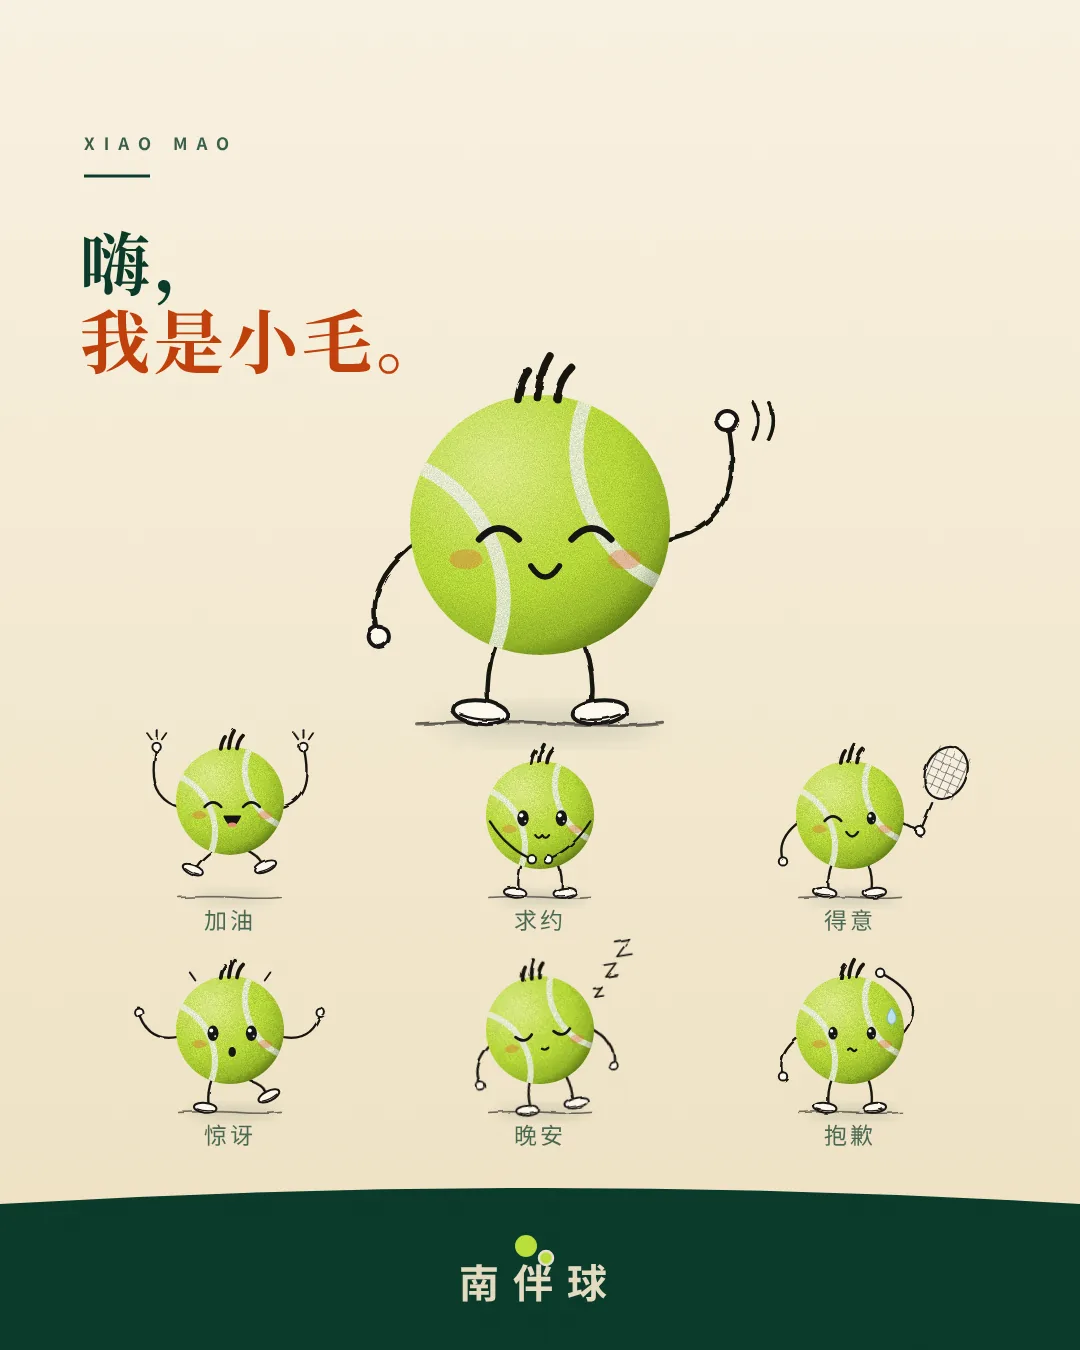
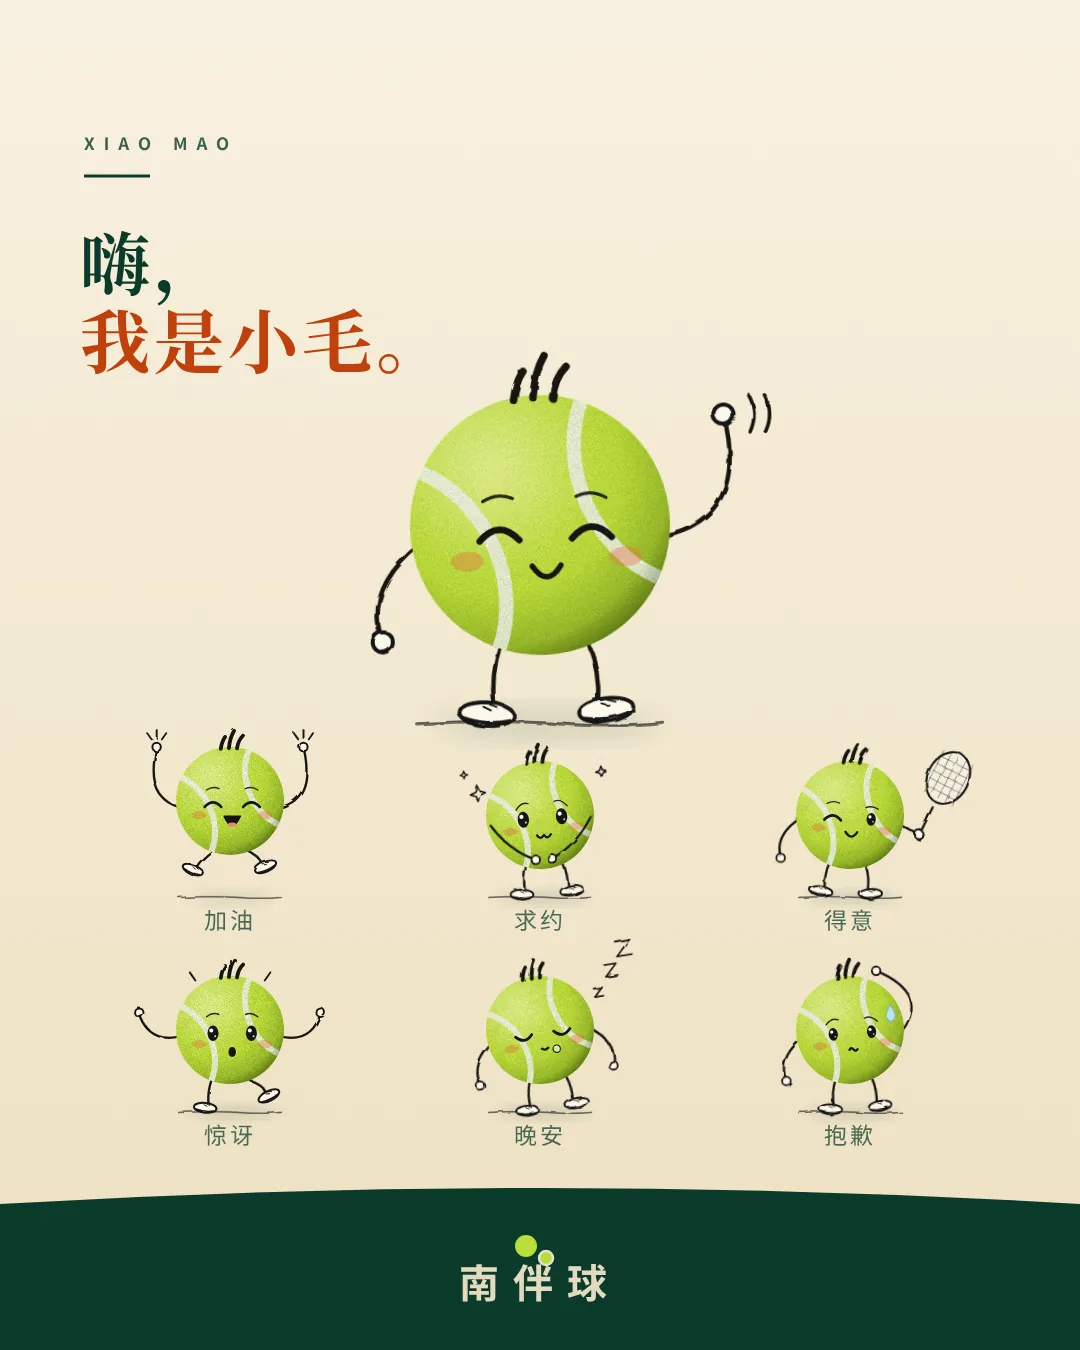
宣传物料：小绒改成粉色的球 + 小蝴蝶结；脸加眉毛、鞋带、求约闪光、睡着鼻泡、歪头；80 击掌改成 Λ 形；78–81 重出
Claude-Session: https://claude.ai/code/session_01Vg2RCbjYppFezKGzdwzEXB

diff --git a/marketing/mao3.py b/marketing/mao3.py
@@ -21,18 +21,19 @@ def hand3(x, y, r, w):
 
 def shoe3(x, y, r, w, rot=0):
     return (f'<g transform="translate({x:.1f} {y:.1f}) rotate({rot})"><ellipse rx="{.21*r:.1f}" ry="{.09*r:.1f}" fill="{PAPER}" stroke="{PEN}" stroke-width="{w:.2f}"/>'
-            f'<path d="M{-.15*r:.1f} {.035*r:.1f} Q0 {.075*r:.1f} {.15*r:.1f} {.035*r:.1f}" fill="none" stroke="{PEN}" stroke-width="{w*.6:.2f}" stroke-linecap="round"/></g>')
+            f'<path d="M{-.17*r:.1f} {.04*r:.1f} Q0 {.085*r:.1f} {.17*r:.1f} {.04*r:.1f}" fill="none" stroke="{PEN}" stroke-width="{w*.75:.2f}" stroke-linecap="round"/>'
+            f'<path d="M{-.03*r:.1f} {-.055*r:.1f} l{.06*r:.1f} {.025*r:.1f} M{.02*r:.1f} {-.075*r:.1f} l{.06*r:.1f} {.022*r:.1f}" fill="none" stroke="{PEN}" stroke-width="{w*.45:.2f}" stroke-linecap="round"/></g>')
 
 
 SH_L, SH_R = (-.93, .12), (.93, .12)
 DOWN_L, DOWN_R = ((-1.38, .45), (-1.24, .86)), ((1.38, .45), (1.24, .86))
 POSES = {
-    'wave':   dict(L=DOWN_L, R=((1.62, .0), (1.44, -.80)), legs='stand', sparks='wave'),
+    'wave':   dict(L=DOWN_L, R=((1.62, .0), (1.44, -.80)), legs='stand', sparks='wave', tilt=-2),
     'cheer':  dict(L=((-1.58, -.05), (-1.36, -1.00)), R=((1.58, -.05), (1.36, -1.00)), legs='jump', lift=.26, sparks='cheer'),
-    'plead':  dict(L=((-.62, .62), (-.15, .82)), R=((.62, .62), (.15, .82)), front=True, legs='stand'),
-    'racket': dict(L=DOWN_L, R=((1.40, .36), (1.30, .30)), legs='stand', racket=True),
+    'plead':  dict(L=((-.62, .62), (-.15, .82)), R=((.62, .62), (.15, .82)), front=True, legs='stand', sparks='plead', tilt=-5),
+    'racket': dict(L=DOWN_L, R=((1.40, .36), (1.30, .30)), legs='stand', racket=True, tilt=3),
     'wow':    dict(L=((-1.52, .25), (-1.68, -.32)), R=((1.52, .25), (1.68, -.32)), legs='step', sparks='wow'),
-    'sorry':  dict(L=DOWN_L, R=((1.55, -.55), (.56, -1.06)), legs='stand'),
+    'sorry':  dict(L=DOWN_L, R=((1.55, -.55), (.56, -1.06)), legs='stand', tilt=-4),
     'sleep':  dict(L=DOWN_L, R=DOWN_R, legs='stand', tilt=-9, zz=True),
 }
 LEGS = {  # (髋, 控制点, 脚踝, 鞋的角度)
@@ -46,6 +47,8 @@ def _flip(P):
     fl = lambda a: None if a is None else ((-a[0][0], a[0][1]), (-a[1][0], a[1][1]))
     Q = dict(P)
     Q['L'], Q['R'] = fl(P.get('R')), fl(P.get('L'))
+    if 'tilt' in Q:
+        Q['tilt'] = -Q['tilt']
     return Q
 
 
@@ -62,26 +65,77 @@ def tuft3(cx, cy, r, w):
     return out
 
 
-def pony3(cx, cy, r, w):
-    """小绒的高马尾（黑色一笔甩出去）+ 橙色蝴蝶结。"""
-    P = lambda x, y: f'{cx + x*r:.1f} {cy + y*r:.1f}'
-    bx, by = .30, -.96
-    tail = (f'<path d="M{P(bx,by)} C{P(.55,-1.45)} {P(1.10,-1.40)} {P(1.12,-.80)} C{P(.98,-1.05)} {P(.70,-1.08)} {P(bx,by)} Z" '
-            f'fill="{PEN}" stroke="{PEN}" stroke-width="{w*.5:.2f}" stroke-linejoin="round"/>')
-    lobe = lambda k: (f'<path d="M0 0 L{k*.24*r:.1f} {-.15*r:.1f} Q{k*.30*r:.1f} 0 {k*.24*r:.1f} {.15*r:.1f} Z" fill="#E8643C" stroke="{PEN}" stroke-width="{w*.7:.2f}" stroke-linejoin="round"/>')
-    bow = (f'<g transform="translate({cx + bx*r:.1f} {cy + by*r:.1f}) rotate(-28)">{lobe(-1)}{lobe(1)}'
-           f'<circle r="{.065*r:.1f}" fill="#E8643C" stroke="{PEN}" stroke-width="{w*.7:.2f}"/></g>')
-    return tail + bow
+def bow3(cx, cy, r, w):
+    """小绒头顶右侧的小蝴蝶结：奶油白 + 黑线描边，中间一个结，两瓣各一道褶。"""
+    bx, by = .50, -.87
+    lobe = lambda k: (f'<path d="M0 0 L{k*.27*r:.1f} {-.17*r:.1f} Q{k*.34*r:.1f} 0 {k*.27*r:.1f} {.17*r:.1f} Z" fill="{PAPER}" stroke="{PEN}" stroke-width="{w*.8:.2f}" stroke-linejoin="round"/>'
+                      f'<path d="M{k*.06*r:.1f} 0 L{k*.23*r:.1f} {-.07*r:.1f} M{k*.06*r:.1f} 0 L{k*.23*r:.1f} {.07*r:.1f}" stroke="{PEN}" stroke-width="{w*.4:.2f}" stroke-linecap="round" opacity=".55"/>')
+    return (f'<g transform="translate({cx + bx*r:.1f} {cy + by*r:.1f}) rotate(-24)">{lobe(-1)}{lobe(1)}'
+            f'<circle r="{.07*r:.1f}" fill="{PAPER}" stroke="{PEN}" stroke-width="{w*.8:.2f}"/></g>')
 
 
-def skirt3(cx, cy, r, w):
-    """小绒的白色网球裙：奶油白 + 黑线描边 + 几道褶。"""
-    P = lambda x, y: f'{cx + x*r:.1f} {cy + y*r:.1f}'
-    d = (f'M{P(-.62,.66)} L{P(.62,.66)} L{P(.80,1.00)} Q{P(.60,1.08)} {P(.40,1.00)} Q{P(.20,1.08)} {P(0,1.00)} '
-         f'Q{P(-.20,1.08)} {P(-.40,1.00)} Q{P(-.60,1.08)} {P(-.80,1.00)} Z')
-    out = f'<path d="{d}" fill="{PAPER}" stroke="{PEN}" stroke-width="{w*.9:.2f}" stroke-linejoin="round"/>'
-    for x in (-.42, -.14, .14, .42):
-        out += f'<path d="M{P(x*.78,.70)} L{P(x,1.01)}" stroke="{PEN}" stroke-width="{w*.4:.2f}" stroke-linecap="round" opacity=".5"/>'
+def ball_c(id, cx, cy, r, hi, mid, lo, seam='#FFF6F0', rim='#3b0d1f', rot=-22):
+    """和 lib.ball 同一种写实网球，只是换颜色（粉色的小绒用）。"""
+    s = r / 100
+    return f'''
+<g transform="translate({cx} {cy}) scale({s})">
+  <circle r="100" fill="url(#pg{id})"/>
+  <clipPath id="pc{id}"><circle r="100"/></clipPath>
+  <g clip-path="url(#pc{id})">
+    <g transform="rotate({rot})">
+      <path d="M-67 -74 C-30 -34 -30 34 -67 74" fill="none" stroke="{seam}" stroke-width="11" stroke-linecap="round" opacity=".92"/>
+      <path d="M67 -74 C30 -34 30 34 67 74" fill="none" stroke="{seam}" stroke-width="11" stroke-linecap="round" opacity=".92"/>
+    </g>
+    <circle r="100" fill="#000" filter="url(#fuzz)" opacity=".30" style="mix-blend-mode:multiply"/>
+    <circle r="100" fill="url(#pr{id})"/>
+  </g>
+</g>
+<defs>
+ <radialGradient id="pg{id}" cx="35%" cy="30%" r="85%"><stop offset="0" stop-color="{hi}"/><stop offset=".55" stop-color="{mid}"/><stop offset="1" stop-color="{lo}"/></radialGradient>
+ <radialGradient id="pr{id}" cx="30%" cy="25%" r="90%"><stop offset="0" stop-color="#fff" stop-opacity=".28"/><stop offset=".45" stop-color="#fff" stop-opacity="0"/><stop offset=".8" stop-color="{rim}" stop-opacity="0"/><stop offset="1" stop-color="{rim}" stop-opacity=".5"/></radialGradient>
+</defs>'''
+
+
+PINK = dict(hi='#FFD3E0', mid='#F68FB4', lo='#C2517A')
+
+
+def brows3(cx, cy, s, mood):
+    """细细的眉毛：不同心情抬得不一样；睡着了没有。"""
+    if mood == 'sleep':
+        return ''
+    e = 42 * s
+    f = lambda v: f'{v:.1f}'
+    table = {'happy': (-30, -32), 'cheer': (-31, -34), 'wink': (-30, -32), 'wow': (-36, -41), 'plead': (-22, -34), 'sweat': (-22, -31)}
+    yo, yi = table.get(mood, (-23, -25))
+    out = ''
+    for sx in (-1, 1):
+        xo, xi = sx * (e + 14 * s), sx * (e - 13 * s)
+        if mood == 'wink' and sx == 1:
+            yo, yi = -23, -25
+        out += (f'<path d="M{f(cx + xo)} {f(cy + yo*s)} Q{f(cx + (xo + xi)/2)} {f(cy + (min(yo, yi) - 6)*s)} {f(cx + xi)} {f(cy + yi*s)}" '
+                f'fill="none" stroke="{PEN}" stroke-width="{f(3*s)}" stroke-linecap="round" opacity=".9"/>')
+    return out
+
+
+def sleepbubble(cx, cy, s):
+    return (f'<circle cx="{cx + 25*s:.1f}" cy="{cy + 39*s:.1f}" r="{8*s:.1f}" fill="#fff" fill-opacity=".55" stroke="{PEN}" stroke-width="{2.4*s:.2f}"/>'
+            f'<path d="M{cx + 21*s:.1f} {cy + 37*s:.1f} q{2*s:.1f} {-3*s:.1f} {5*s:.1f} {-3*s:.1f}" fill="none" stroke="#fff" stroke-width="{1.6*s:.2f}" stroke-linecap="round"/>')
+
+
+def star4(x, y, k, w):
+    return (f'<path d="M{x:.1f} {y-k:.1f} L{x+.28*k:.1f} {y-.28*k:.1f} L{x+k:.1f} {y:.1f} L{x+.28*k:.1f} {y+.28*k:.1f} L{x:.1f} {y+k:.1f} '
+            f'L{x-.28*k:.1f} {y+.28*k:.1f} L{x-k:.1f} {y:.1f} L{x-.28*k:.1f} {y-.28*k:.1f} Z" fill="none" stroke="{PEN}" stroke-width="{w:.2f}" stroke-linejoin="round"/>')
+
+
+def face3(cx, cy, s, mood='smile', look=0, char='mao'):
+    """脸 + 眉毛；小绒加睫毛、玫瑰色腮红；睡着了鼻子吹个泡泡。cx,cy 为脸中心。"""
+    pink = char == 'rong'
+    out = face2(cx, cy, s, mood, look, ink=PEN, blush_c=('#E23F6B' if pink else '#E8643C'), blush_op=(.40 if pink else .35))
+    out += brows3(cx, cy, s, mood)
+    if pink:
+        out += lashes3(cx, cy, s)
+    if mood == 'sleep':
+        out += sleepbubble(cx, cy, s)
     return out
 
 
@@ -147,9 +201,11 @@ def figure3(id, cx, cy, r, pose='wave', mood='happy', tilt=None, lift=None, look
         for rad in (.20, .32):
             extra += pen(f'M{hx + m*rad*r:.1f} {hy - .14*r:.1f} Q{hx + m*(rad+.07)*r:.1f} {hy:.1f} {hx + m*rad*r:.1f} {hy + .14*r:.1f}', w * .8)
     elif sp == 'wow':
-        for a in ((-125, -90) if char == 'rong' else (-125, -90, -55)):
+        for a in (-125, -90, -55):
             ca, sa = math.cos(math.radians(a)), math.sin(math.radians(a))
             extra += pen(f'M{cx + ca*1.12*r:.1f} {cy + sa*1.12*r:.1f} L{cx + ca*1.30*r:.1f} {cy + sa*1.30*r:.1f}', w * .8)
+    if sp == 'plead':
+        extra += star4(cx - 1.12 * r, cy - .50 * r, .15 * r, w * .7) + star4(cx + 1.20 * r, cy - .70 * r, .10 * r, w * .7) + star4(cx - 1.34 * r, cy - .86 * r, .07 * r, w * .6)
     z = ''
     if P.get('zz'):
         for i in range(3):
@@ -165,10 +221,10 @@ def figure3(id, cx, cy, r, pose='wave', mood='happy', tilt=None, lift=None, look
     front = f'<g filter="url(#rough2)">{arms}</g>' if P.get('front') else ''
     marks = f'<g filter="url(#rough2)">{extra}{z}</g>'
     if char == 'rong':
-        dress = f'<g filter="url(#rough2)">{skirt3(cx, cy, r, w)}</g>'
-        hair = f'<g filter="url(#rough2)">{pony3(cx, cy, r, w)}</g>'
-        lash = lashes3(*fc, s)
+        hair = f'<g filter="url(#rough2)">{bow3(cx, cy, r, w)}</g>'
+        body = ball_c(id, cx, cy, r, **PINK)
     else:
-        dress, hair, lash = '', f'<g filter="url(#rough2)">{tuft3(cx, cy, r, w)}</g>', ''
-    return (soft_sh + gnd + f'<g transform="rotate({tilt} {cx} {cy})">{limbs}{ball(id, cx, cy, r)}{dress}'
-            f'{face2(*fc, s, mood, look, ink=PEN)}{lash}{hair}{front}{marks}</g>')
+        hair = f'<g filter="url(#rough2)">{tuft3(cx, cy, r, w)}</g>'
+        body = ball(id, cx, cy, r)
+    return (soft_sh + gnd + f'<g transform="rotate({tilt} {cx} {cy})">{limbs}{body}'
+            f'{face3(*fc, s, mood, look, char)}{hair}{front}{marks}</g>')

diff --git a/marketing/posters/p80_mao_rong.py b/marketing/posters/p80_mao_rong.py
@@ -5,7 +5,7 @@ from mao3 import figure3, pen, hand3, PEN, DOWN_L, DOWN_R
 META = dict(
     id=80, slug='mao-rong', title='小毛和小绒，好朋友', lines=['小毛和小绒，', '好朋友。'],
     style=['插画', '角色', '拟人', '极简'], tone='浅色', demo=False,
-    concept='角色设定：男生小毛（头顶一小撮毛，嘴硬心软）和女生小绒（高马尾、橙色蝴蝶结、睫毛、白网球裙，话多守时）。主图两人击掌，笔线标出各自的记号；下面三个合照姿势：搭肩 / 一起招手 / 晚安',
+    concept='角色设定：男生小毛（头顶一小撮毛，嘴硬心软）和女生小绒（一颗粉色的球，头顶奶油白小蝴蝶结、睫毛，话多守时）。主图两人击掌，笔线标出各自的记号；下面三个合照姿势：搭肩 / 一起招手 / 晚安',
     use='客服 / 运营形象的双人设定；做“约球搭子”“带朋友一起来”的物料',
 )
 
@@ -18,18 +18,18 @@ def svg():
     random.seed(80)
     gy = 760
     rm, rr = 122, 114
-    xm, xr = 385, 695
+    xm, xr = 368, 712
     cym, cyr = gy - 1.53 * rm, gy - 1.53 * rr
-    tx, ty = 540, 440                      # 击掌的位置
+    tx, ty = 540, 452                      # 击掌的位置
     hm = ((tx - 6 - xm) / rm, (ty - cym) / rm)
     hr = ((tx + 6 - xr) / rr, (ty - cyr) / rr)
-    mao_pose = dict(L=DOWN_L, R=((1.50, -.30), hm), legs='stand')
-    rong_pose = dict(L=((-1.60, -.30), hr), R=DOWN_R, legs='stand')
+    mao_pose = dict(L=DOWN_L, R=((1.50, -.55), hm), legs='stand')
+    rong_pose = dict(L=((-1.62, -.60), hr), R=DOWN_R, legs='stand')
     sparks = ''.join(pen(f'M{tx + math.cos(math.radians(a))*30:.1f} {ty + math.sin(math.radians(a))*30:.1f} L{tx + math.cos(math.radians(a))*52:.1f} {ty + math.sin(math.radians(a))*52:.1f}', 3)
                      for a in (-150, -120, -90, -60, -30))
     # 笔线标注
-    note = (pen('M214 440 Q290 452 356 432', 2.6) + pen('M342 424 L357 432 L343 441', 2.6)
-            + pen('M876 456 Q850 470 826 458', 2.6) + pen('M838 449 L824 458 L840 466', 2.6))
+    note = (pen('M214 440 Q280 454 338 434', 2.6) + pen('M324 426 L339 434 L325 443', 2.6)
+            + pen('M876 458 Q846 470 806 482', 2.6) + pen('M820 470 L805 482 L822 488', 2.6))
     # 三个合照
     r2, gy2 = 40, 1075
     duo = ''
@@ -66,7 +66,7 @@ def svg():
 {figure3('r', xr, 0, rr, rong_pose, 'happy', gy=gy, char='rong')}
 <g filter="url(#rough2)">{sparks}{note}</g>
 {label(96, 438, '一小撮毛', size=24)}
-{label(884, 446, '高马尾', size=24)}{label(884, 478, '和蝴蝶结', size=24)}
+{label(884, 452, '小蝴蝶结', size=24)}
 <text x="{xm}" y="{gy+60}" text-anchor="middle" font-family="{SERIF}" font-weight="900" font-size="38" fill="#0B3B2A">小毛</text>
 <text x="{xr}" y="{gy+60}" text-anchor="middle" font-family="{SERIF}" font-weight="900" font-size="38" fill="#0B3B2A">小绒</text>
 {label(xm, gy + 98, '嘴硬，心软。', 'middle', 22, .68)}{label(xr, gy + 98, '话多，守时。', 'middle', 22, .68)}

diff --git a/marketing/mao2.py b/marketing/mao2.py
@@ -7,7 +7,7 @@ from lib import *
 LIMB, LIMB_O, SHOE, INK = '#B8DA38', '#5E8A1A', '#F7EBD6', '#0B3B2A'
 
 
-def face2(cx, cy, s, mood='smile', look=0, ink=INK):
+def face2(cx, cy, s, mood='smile', look=0, ink=INK, blush_c='#E8643C', blush_op=.35):
     """s = 球半径 / 118。mood: smile 微笑 / happy 弯眼笑 / cheer 张嘴大笑 / wow 惊讶 / plead 求约(大眼睛) / wink 眨眼 / sweat 不好意思 / sleep 闭眼。"""
     e = 42 * s
     f = lambda v: f'{v:.1f}'
@@ -45,7 +45,7 @@ def face2(cx, cy, s, mood='smile', look=0, ink=INK):
         g = arc_dn(-e) + arc_dn(e) + f'<path d="M{f(-7*s)} {f(34*s)} Q0 {f(40*s)} {f(7*s)} {f(34*s)}" {st}/>'
     else:
         g = eye(-e) + eye(e) + smile
-    blush = ''.join(f'<ellipse cx="{f(x)}" cy="{f(24*s)}" rx="{f(15*s)}" ry="{f(9*s)}" fill="#E8643C" opacity=".35"/>' for x in (-e - 30 * s, e + 30 * s))
+    blush = ''.join(f'<ellipse cx="{f(x)}" cy="{f(24*s)}" rx="{f(15*s)}" ry="{f(9*s)}" fill="{blush_c}" opacity="{blush_op}"/>' for x in (-e - 30 * s, e + 30 * s))
     return f'<g transform="translate({f(cx)} {f(cy)})">{blush}{g}</g>'
 
 

diff --git a/marketing/posters/p79_mao_swing_pen.py b/marketing/posters/p79_mao_swing_pen.py
@@ -1,6 +1,6 @@
 from lib import *
 from mao2 import face2
-from mao3 import pen, hand3, shoe3, tuft3, PEN
+from mao3 import pen, hand3, shoe3, tuft3, face3, PEN
 
 META = dict(
     id=79, slug='mao-swing-pen', title='等你推一把（线条版）', lines=['等你来，', '推一把。'],
@@ -44,7 +44,7 @@ def svg():
 <g transform="rotate(7 560 596)">
   <g filter="url(#rough2)">{pen('M470 596 L440 930', 3)}{pen('M650 598 L680 930', 3)}</g>
   <ellipse cx="560" cy="1070" rx="160" ry="12" fill="#0B3B2A" opacity=".16" filter="url(#bl14)"/>
-  <g filter="url(#rough2)">{arms}</g>{ball('b', cx, cy, r)}{face2(cx + 8, cy + 6, r/118, 'happy', 1, ink=PEN)}<g filter="url(#rough2)">{tuft3(cx, cy, r, 3.2)}</g>
+  <g filter="url(#rough2)">{arms}</g>{ball('b', cx, cy, r)}{face3(cx + 8, cy + 6, r/118, 'happy', 1)}<g filter="url(#rough2)">{tuft3(cx, cy, r, 3.2)}</g>
   <rect x="408" y="920" width="304" height="26" rx="10" fill="#B0582F"/><rect x="408" y="920" width="304" height="8" rx="4" fill="#D9854F"/>
   <g filter="url(#rough2)">{legs}</g>
 </g>

diff --git a/marketing/posters/p81_rong_pen.py b/marketing/posters/p81_rong_pen.py
@@ -4,7 +4,7 @@ from mao3 import figure3
 META = dict(
     id=81, slug='rong-pen', title='嗨，我是小绒', lines=['嗨，', '我是小绒。'],
     style=['插画', '角色', '拟人', '极简'], tone='浅色', demo=False,
-    concept='女生小绒（和 78 的小毛是好朋友）：高马尾、橙色蝴蝶结、睫毛、白网球裙，手脚同样是黑色手写细线；有动作的手在左边，不和马尾打架。主图招手，下面六个姿势：加油 / 求约 / 得意 / 惊讶 / 晚安 / 抱歉',
+    concept='女生小绒（和 78 的小毛是好朋友）：一颗粉色的球，头顶奶油白小蝴蝶结、睫毛，手脚同样是黑色手写细线；有动作的手在左边，右边留给蝴蝶结。主图招手，下面六个姿势：加油 / 求约 / 得意 / 惊讶 / 晚安 / 抱歉',
     use='客服 / 运营形象的设定；头像、贴纸、小红书系列的底稿',
 )
 

diff --git a/.claude/skills/nanbanqiu-poster/SKILL.md b/.claude/skills/nanbanqiu-poster/SKILL.md
@@ -65,7 +65,7 @@ def svg():
 - **字标圆点是荧光黄绿**：在黄绿 / 浅色大色块上看不见，底部加一条深色条再放 `wordmark`（50、58、67 踩过）。
 - **冷知识海报做法**（68–72）：先挖网球事实（只用真的，拿不准写「相传」），再用网球物件承载：球当钟面（70）、两球当 0（68）、球罐成分表（69）、球网剖面加标注线（71）、红土球印加粉笔圈（72）；画面里留 2–3 处可细看的小标注。
 - **批量出图节奏**：一次 heredoc 写 3–4 个 `pNN_*.py`，`build.py --only` 一次出，Read 逐张看，只改被发现的缺陷，再统一改张数（`sed` CLAUDE.md / 进度记录.md / 本文件）、`--check`、`site.mjs`、`site.js`、提交推送、`SendUserFile` 发图。
-- **角色「小毛」**：**用 v3（78–81）**，`marketing/mao3.py` 的 `figure3(id,cx,cy,r,pose,mood,char)`；两个角色：**小毛（男，`char='mao'`，头顶一小撮毛，嘴硬心软）/ 小绒（女，`char='rong'`，高马尾 + 橙色蝴蝶结 + 睫毛 + 白网球裙，话多守时）**，是好朋友；小绒用名字姿势时左右镜像（动作手在左，不和马尾打架）；合照用 dict 姿势 + `gy` 定地面线（见 p80）；：写实荧光球 + 33–36 同款脸（`mao2.face2`，眼睛用黑色）+ **只用黑色手写细线画手脚**（`pen` 双笔触 + `rough2` 抖动；手是小圆圈，脚是小椭圆球鞋，脚下一笔地面线）。**必须放浅色底**（奶油 `#FBF4E3→#F1E3C4`），黑线才看得见；浅色底字标圆点看不见，底部做深绿弧形条再放字标；标题用深绿 + `#C2410C`。pose=wave/cheer/plead/racket/wow/sorry/sleep；mood=smile/happy/cheer/wow/plead/wink/sweat/sleep；坐、抓绳等特殊姿势用 `pen/hand3/shoe3` 自己拼（见 p79）。v1（73–75 冷面脸）用户说「看起来不舒服、奇怪」，v2（76–77 黄绿粗手脚）用户说「球长手长脚奇怪」，**都别再用**。口吻：陈述句、句号收尾、无感叹号。
+- **角色「小毛」**：**用 v3（78–81）**，`marketing/mao3.py` 的 `figure3(id,cx,cy,r,pose,mood,char)`；两个角色：**小毛（男，`char='mao'`，头顶一小撮毛，嘴硬心软）/ 小绒（女，`char='rong'`，**一颗粉色的球**（`mao3.ball_c` + `PINK`）+ 奶油白小蝴蝶结 + 睫毛 + 玫瑰色腮红，话多守时；不要再画马尾、裙子）**，是好朋友；小绒用名字姿势时左右镜像（动作手在左，不和马尾打架）；合照用 dict 姿势 + `gy` 定地面线（见 p80）；：写实荧光球 + 33–36 同款脸（`mao2.face2`，眼睛用黑色）+ **只用黑色手写细线画手脚**（`pen` 双笔触 + `rough2` 抖动；手是小圆圈，脚是小椭圆球鞋，脚下一笔地面线）。**必须放浅色底**（奶油 `#FBF4E3→#F1E3C4`），黑线才看得见；浅色底字标圆点看不见，底部做深绿弧形条再放字标；标题用深绿 + `#C2410C`。pose=wave/cheer/plead/racket/wow/sorry/sleep；mood=smile/happy/cheer/wow/plead/wink/sweat/sleep；坐、抓绳等特殊姿势用 `pen/hand3/shoe3` 自己拼（见 p79）。v1（73–75 冷面脸）用户说「看起来不舒服、奇怪」，v2（76–77 黄绿粗手脚）用户说「球长手长脚奇怪」，**都别再用**。脸用 `face3`（face2 + 细眉毛 + 小绒睫毛 + 睡着的鼻泡）；细节：鞋带、求约的闪光星、歪头。口吻：陈述句、句号收尾、无感叹号。
 - 常量 `W H SERIF SANS C`，以及 `math` `random` 已导入。
 
 ## 经验和坑

diff --git a/.claude/skills/nanbanqiu-poster/品味手册.md b/.claude/skills/nanbanqiu-poster/品味手册.md
@@ -87,3 +87,4 @@
 - 球长手长脚（粗的、黄绿色，76–77）也奇怪；他要的是**黑色手写细线画手脚**，和写实球形成「实 / 简」对比，简约大气，「一定要好看」（78–79）。
 - 黑线必须放浅色底；没反馈前不要加表情、周边。
 - 10-29「非常好」：78–79 的黑线手脚画风被认可。同日要求**男、女两个角色，是好朋友**：小毛（男，头顶一小撮毛）、小绒（女，高马尾、蝴蝶结、睫毛、白网球裙），80 合照 / 81 小绒设定图；78、79 的小毛随之加了那一小撮毛。
+- 10-29：女生角色**用一颗粉色的球**表示（比马尾 / 裙子好，更简约）；强调**细节决定高度**：动作和表情要认真做（眉毛、睫毛、鞋带、歪头、闪光星、睡着的鼻泡、击掌成 Λ 形不缠成一根）。
